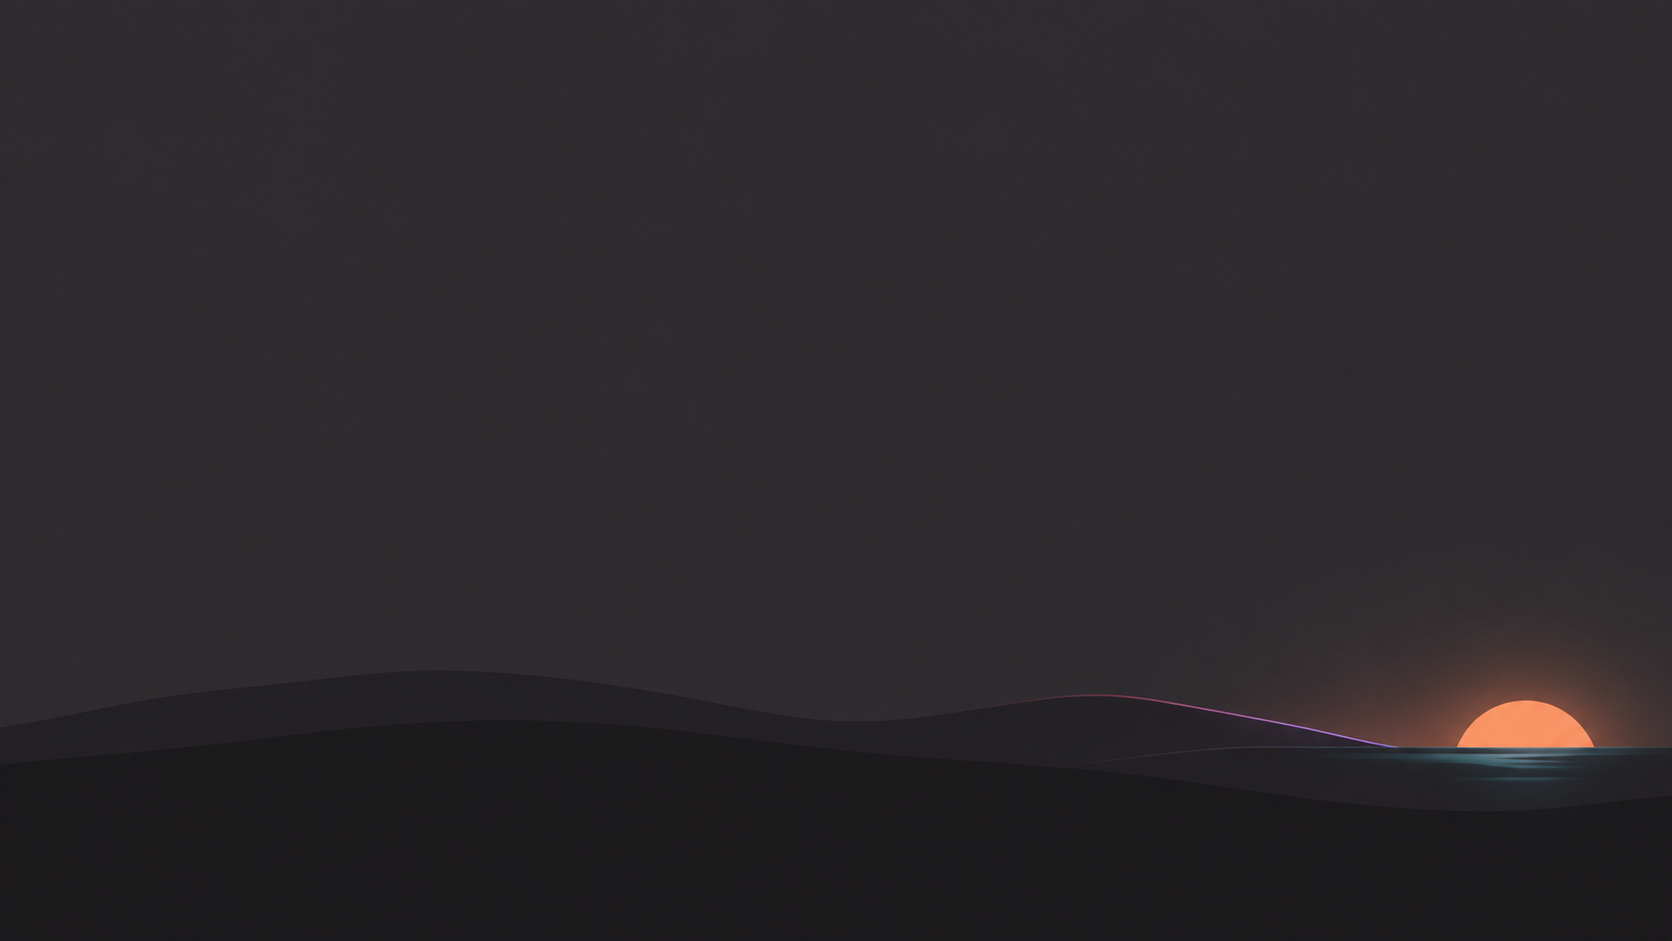
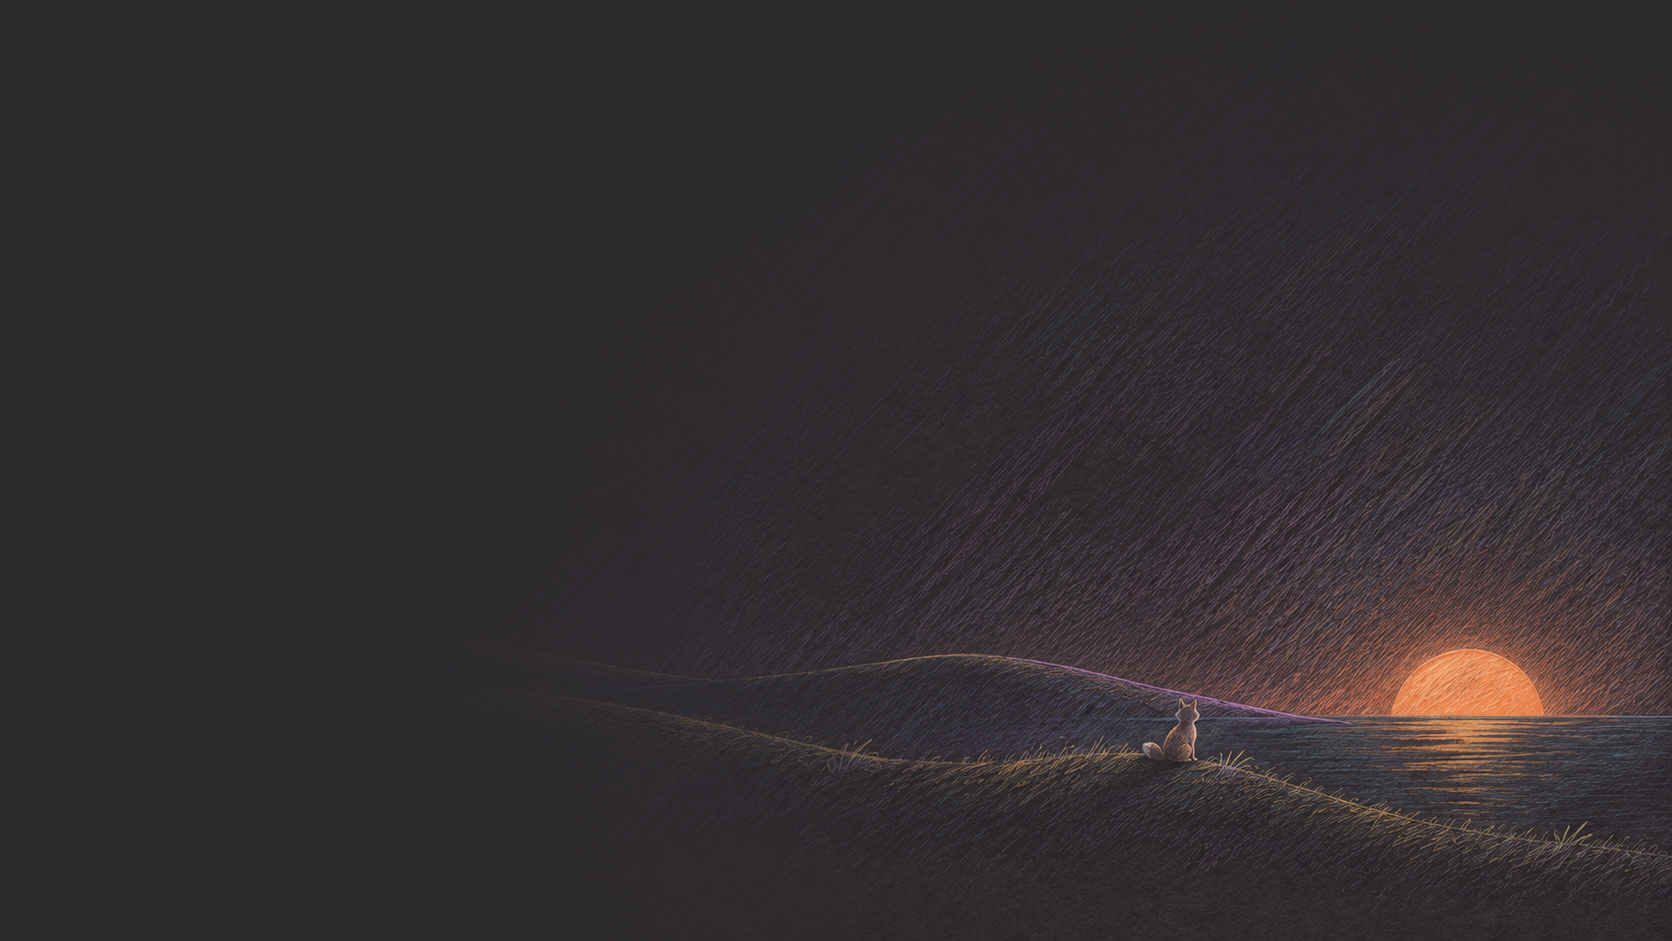
✨ feat(backgrounds): redraw horizon in pencil style
- :sparkles: match the grove's coloured-pencil look so the rotation reads as one set, with a fox watching the sunset as a companion to the grove's rabbit

Claude-Session: https://claude.ai/code/session_01KcMBmdTUYPsxUBktRW77dF

Changed region(s): [[0.4043, 0.4315, 1.0, 1.0], [0.8086, 0.4006, 0.8397, 0.4315]]

diff --git a/README.md b/README.md
@@ -89,7 +89,7 @@ Omarchy is installed, they also resolve the palette with
 run the tests.
 
 The wallpapers in `backgrounds/` were generated with Codex image generation
-from the palette above. The default, a coloured-pencil grove, was then blended
-into a flat `#2d2a2e` outside the scene with ImageMagick, so it runs seamlessly
-behind windows. X Monokai is not affiliated with or endorsed by Monokai, the
+from the palette above. The coloured-pencil grove and horizon were then
+blended into a flat `#2d2a2e` outside the scene with ImageMagick, so they run
+seamlessly behind windows. X Monokai is not affiliated with or endorsed by Monokai, the
 maker of Monokai Pro.
